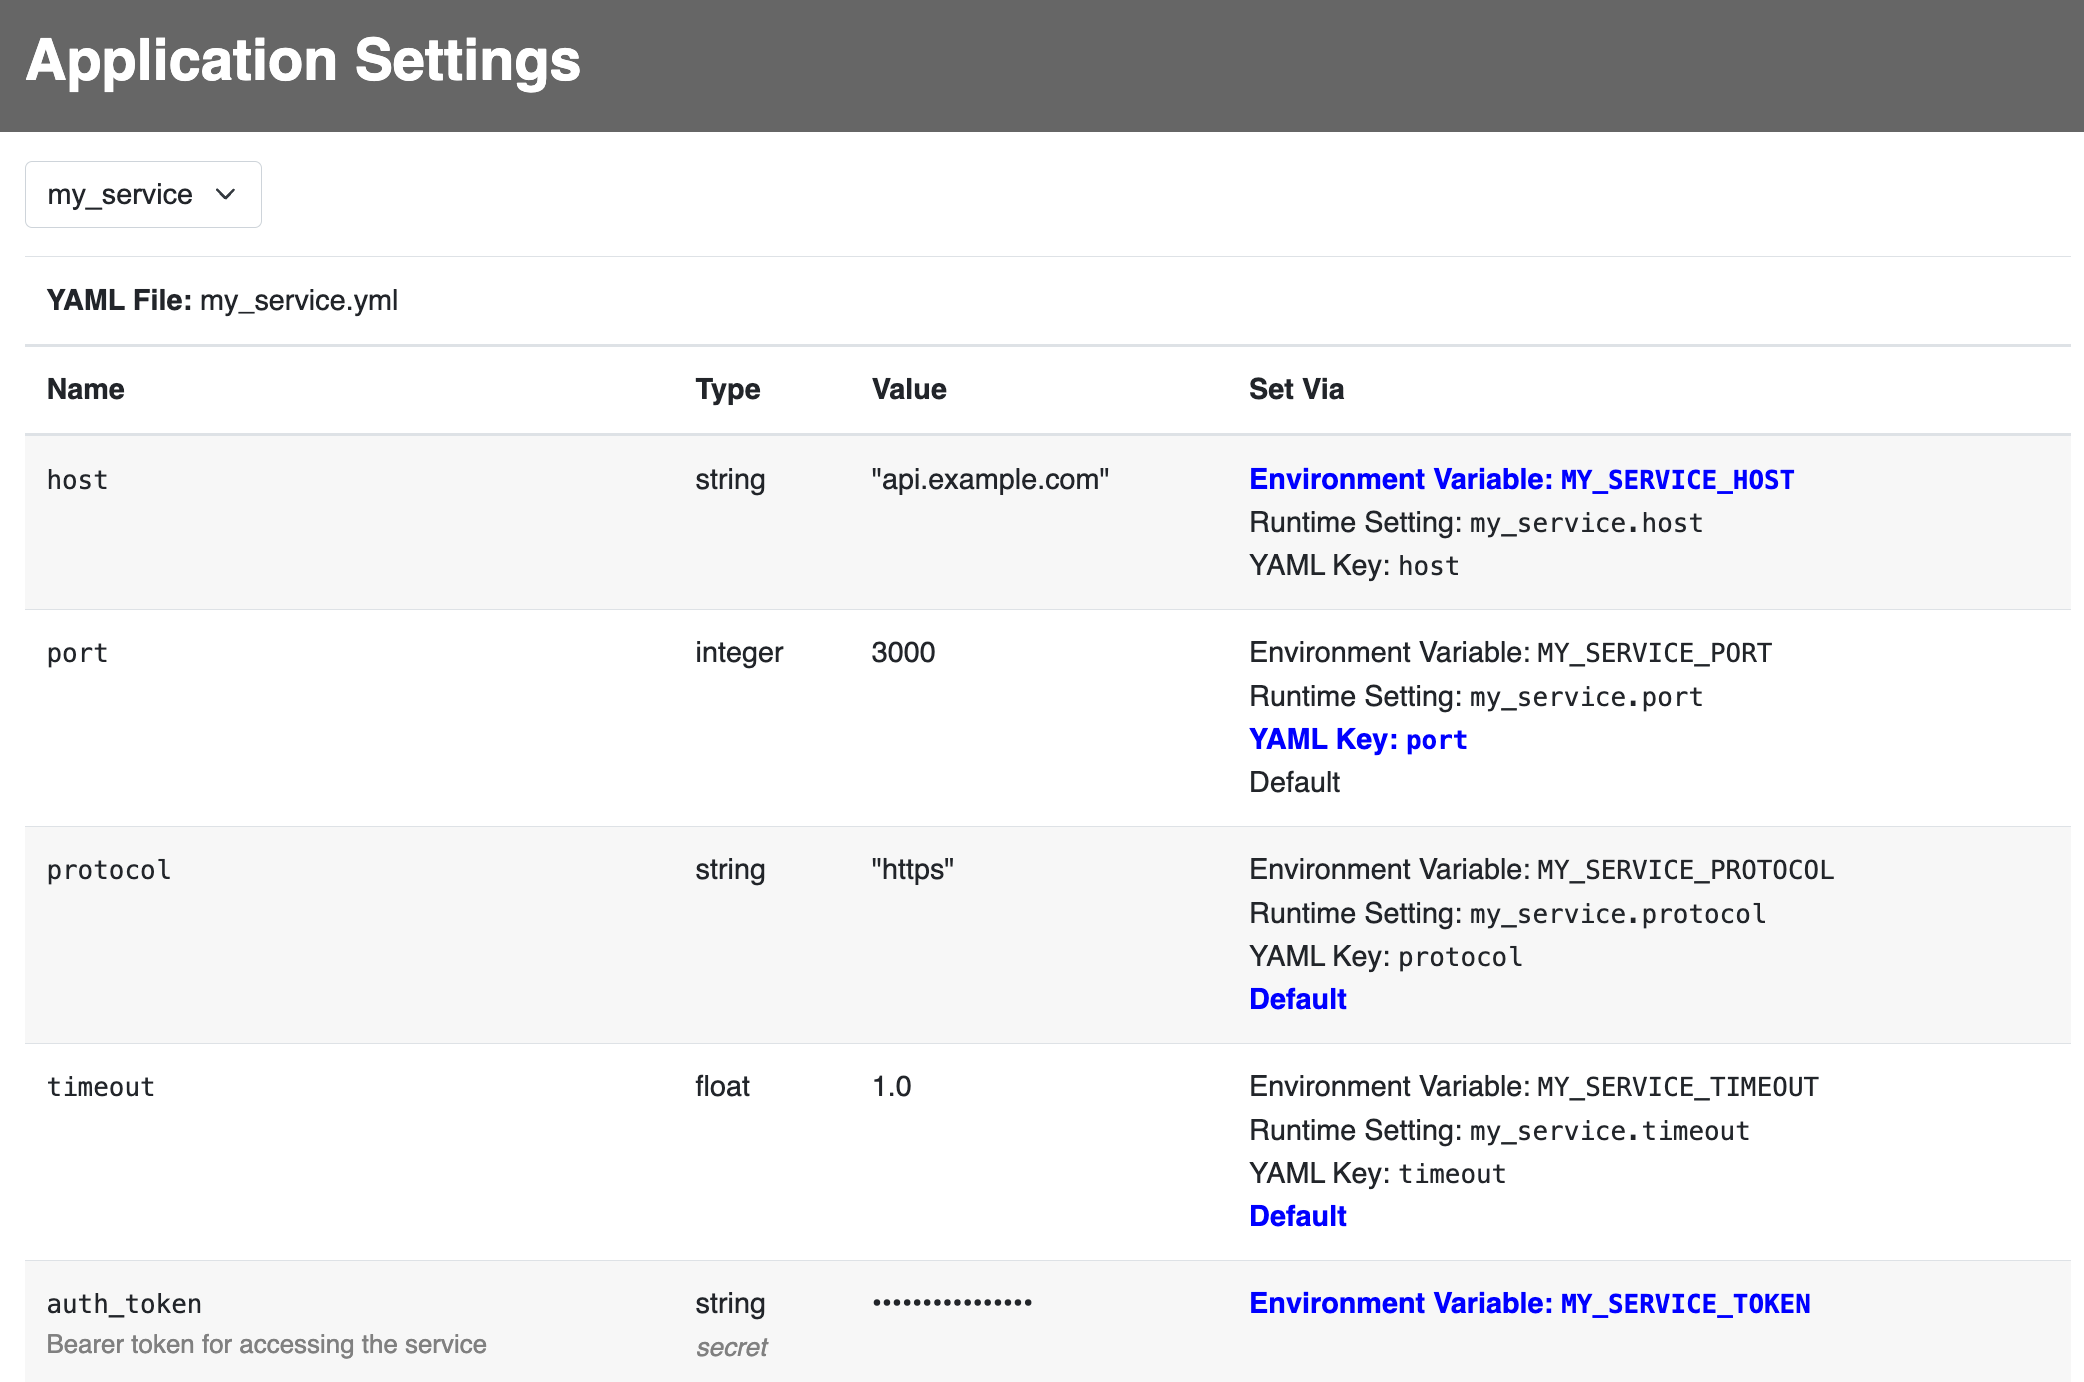
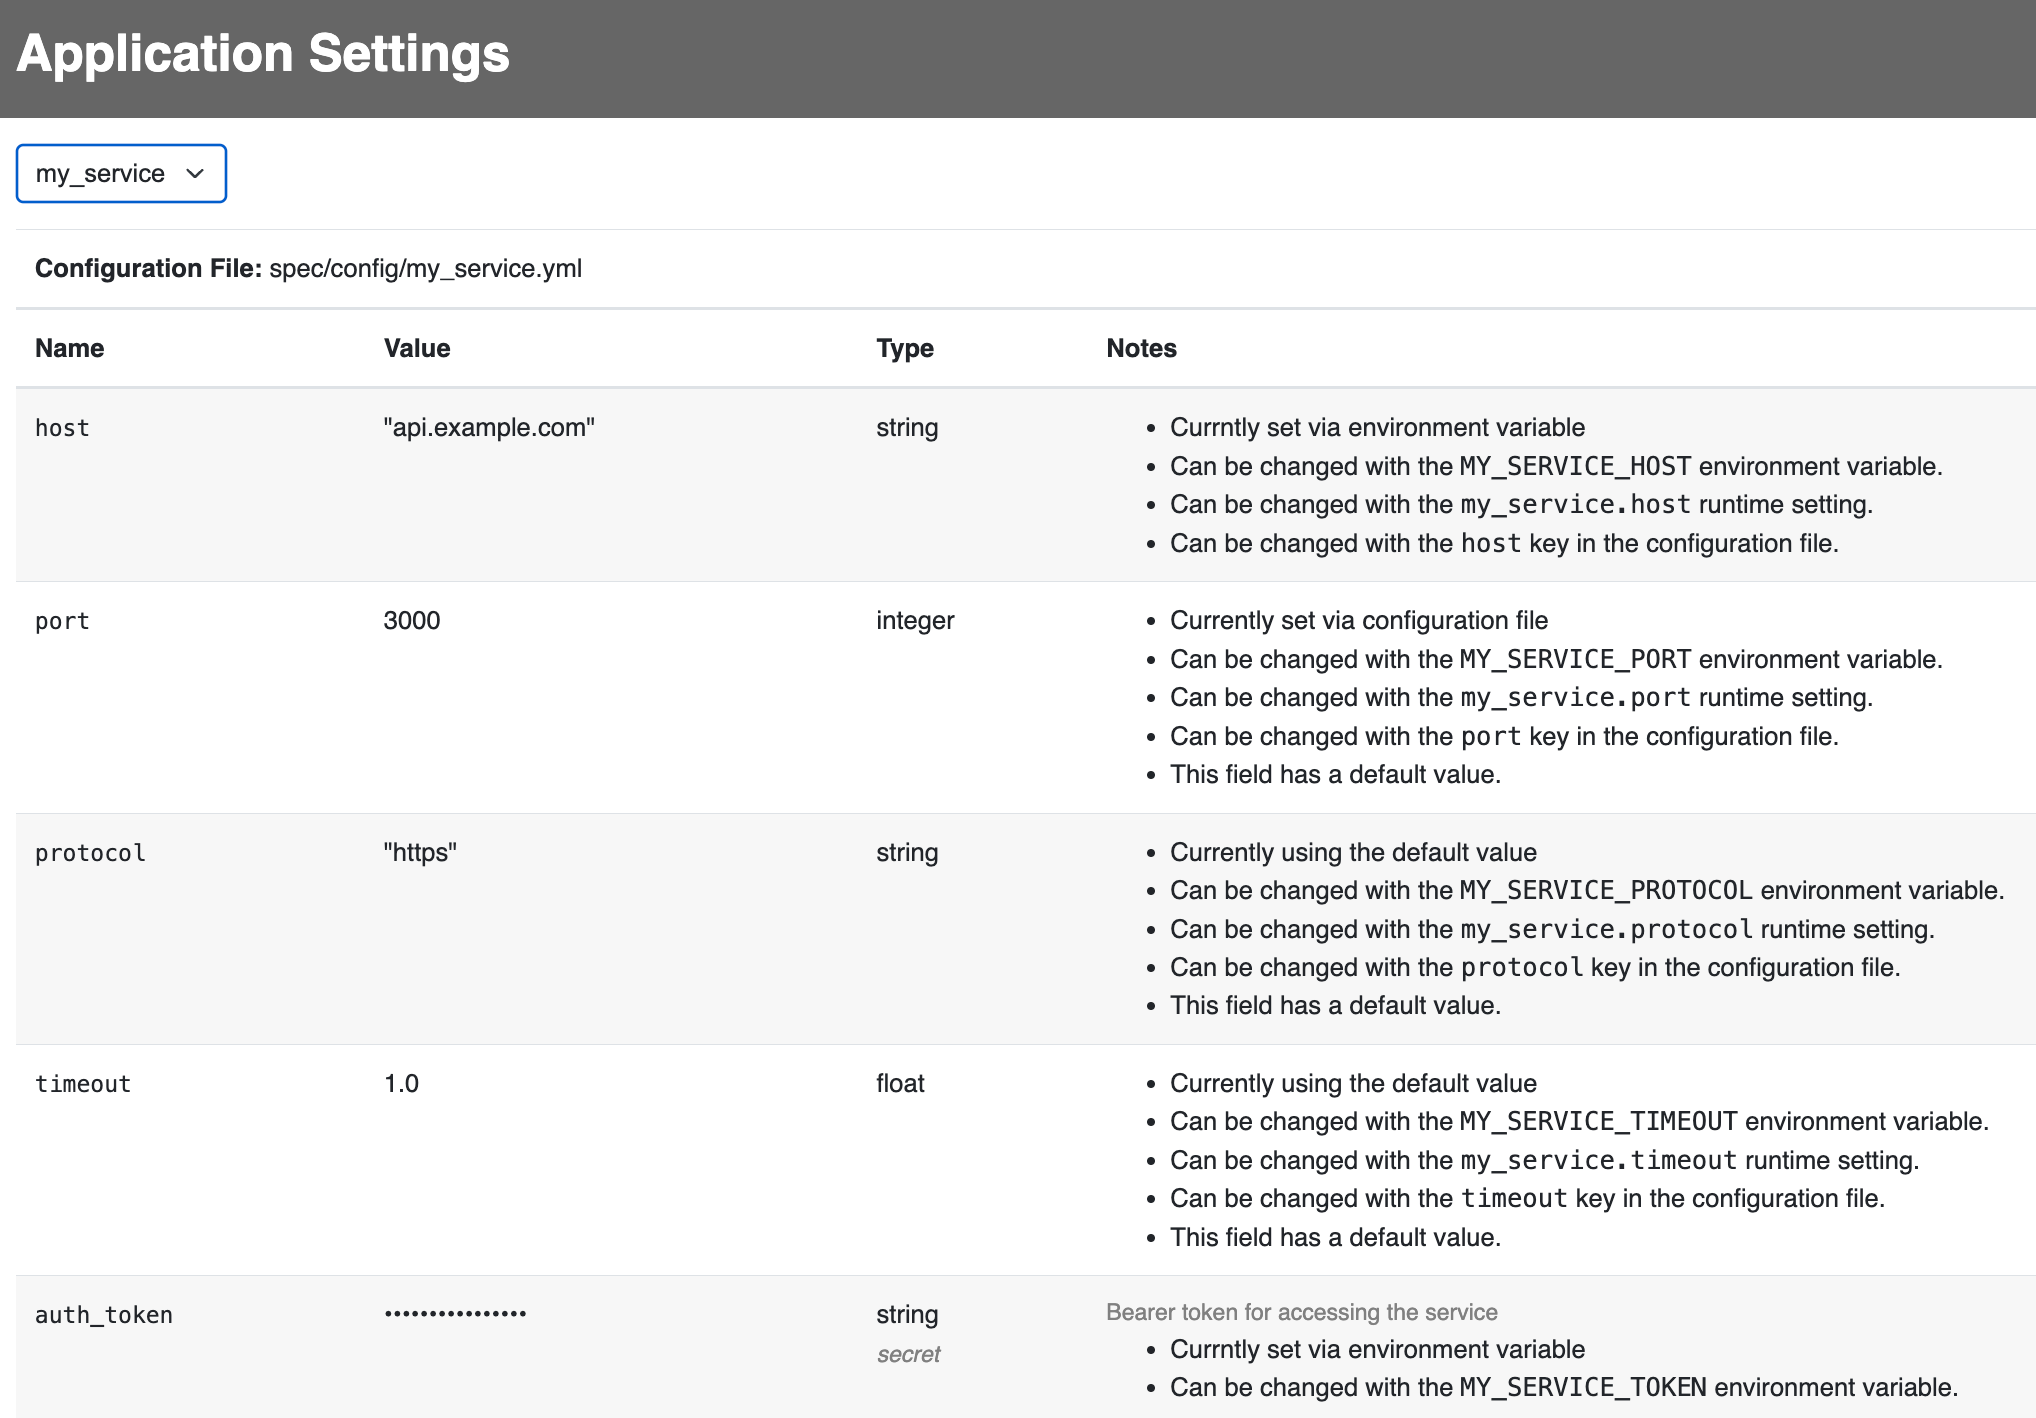
update table

diff --git a/lib/ultra_settings/configuration_view.rb b/lib/ultra_settings/configuration_view.rb
@@ -37,7 +37,7 @@ module UltraSettings
     def render(table_class: "ultra-settings-table")
       configuration = @configuration
       html = self.class.template.result(binding)
-      html.html_safe if html.respond_to?(:html_safe)
+      html = html.html_safe if html.respond_to?(:html_safe)
       html
     end
 
@@ -60,13 +60,18 @@ module UltraSettings
       end
     end
 
-    def set_via(label, value, configuration, field, option)
-      html = html_escape(label)
-      html = "#{html}: <code class=\"ultra-settings-set-via\">#{html_escape(value)}</code>" unless value.nil?
-      if configuration.__source__(field.name) == option
-        html = "<strong class=\"ultra-settings-set-via-selected\">#{html}</strong>"
+    def set_via_description(configuration, field)
+      if configuration.__source__(field.name) == :env
+        "Currntly set via environment variable"
+      elsif configuration.__source__(field.name) == :settings
+        "Currently set via runtime settings"
+      elsif configuration.__source__(field.name) == :yaml
+        "Currently set via configuration file"
+      elsif !field.default.nil?
+        "Currently using the default value"
+      else
+        "Not set"
       end
-      html
     end
 
     def secret_value(value)
@@ -78,7 +83,12 @@ module UltraSettings
     end
 
     def relative_path(path)
-      path.relative_path_from(UltraSettings::Configuration.yaml_config_path)
+      root_path = Pathname.new(Dir.pwd)
+      config_path = UltraSettings::Configuration.yaml_config_path
+      unless config_path.realpath.to_s.start_with?("#{root_path.realpath}#{File::SEPARATOR}")
+        root_path = config_path
+      end
+      path.relative_path_from(root_path)
     end
   end
 end
